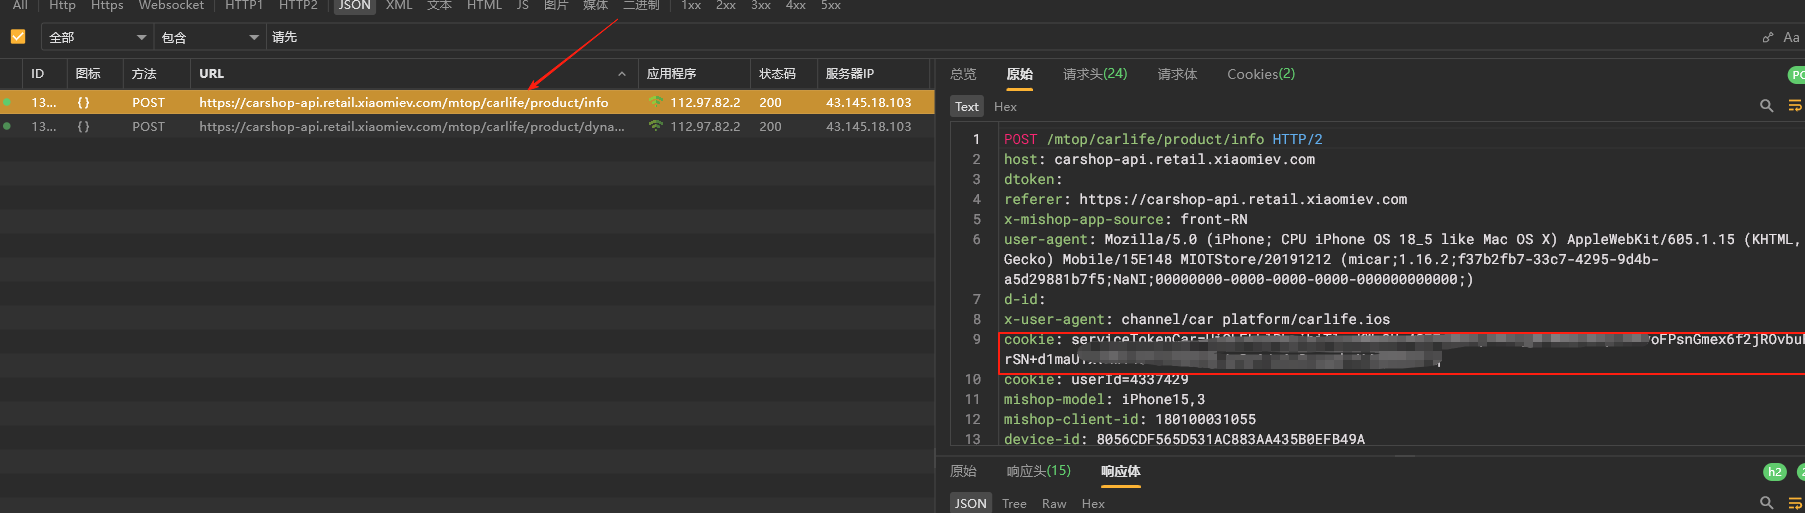
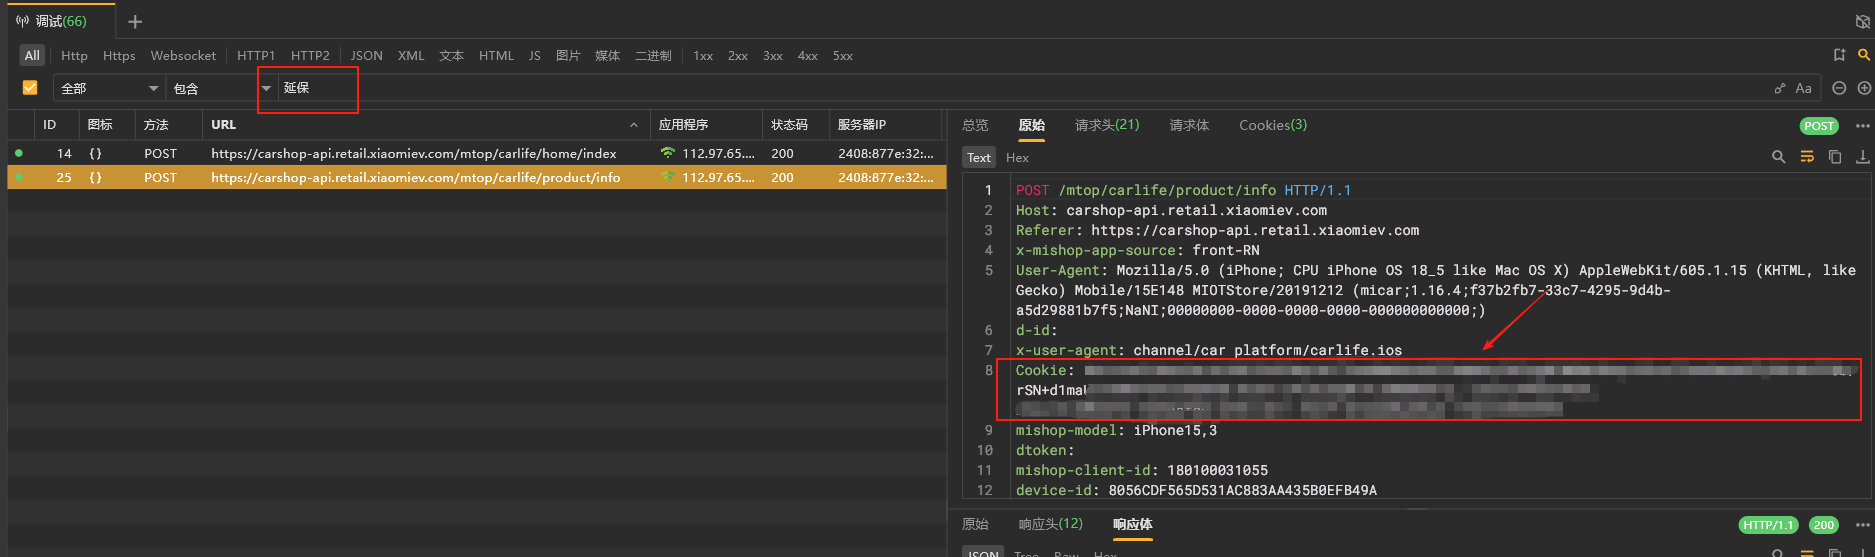
update picture

diff --git a/README.md b/README.md
@@ -59,7 +59,7 @@ on:
 
    使用[Reqable](https://reqable.com/zh-CN)等抓包工具，抓取`小米汽车App`
    查看：`https://carshop-api.retail.xiaomiev.com/mtop/carlife/product/info`
-
+   搜索“延保”，查询“原始”的 Cookie
    ![img](/img/4.png)
 
 6. DEVICE_TOKEN 的获取
